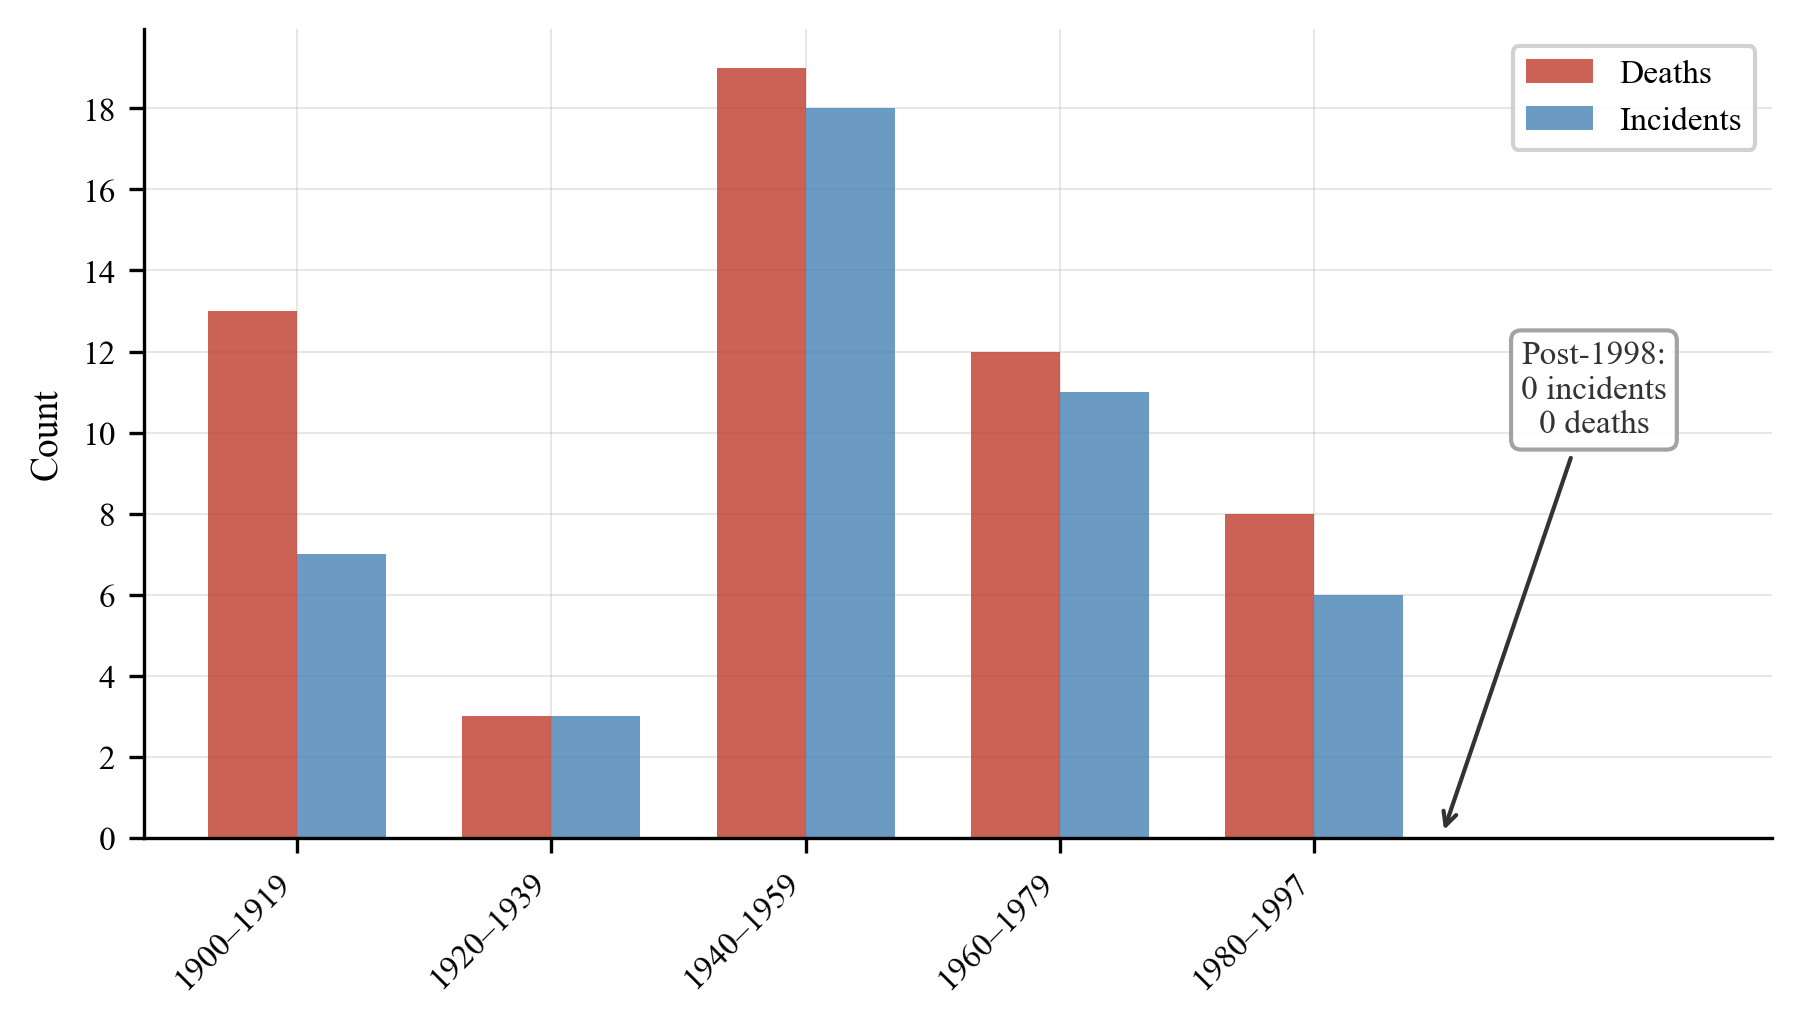
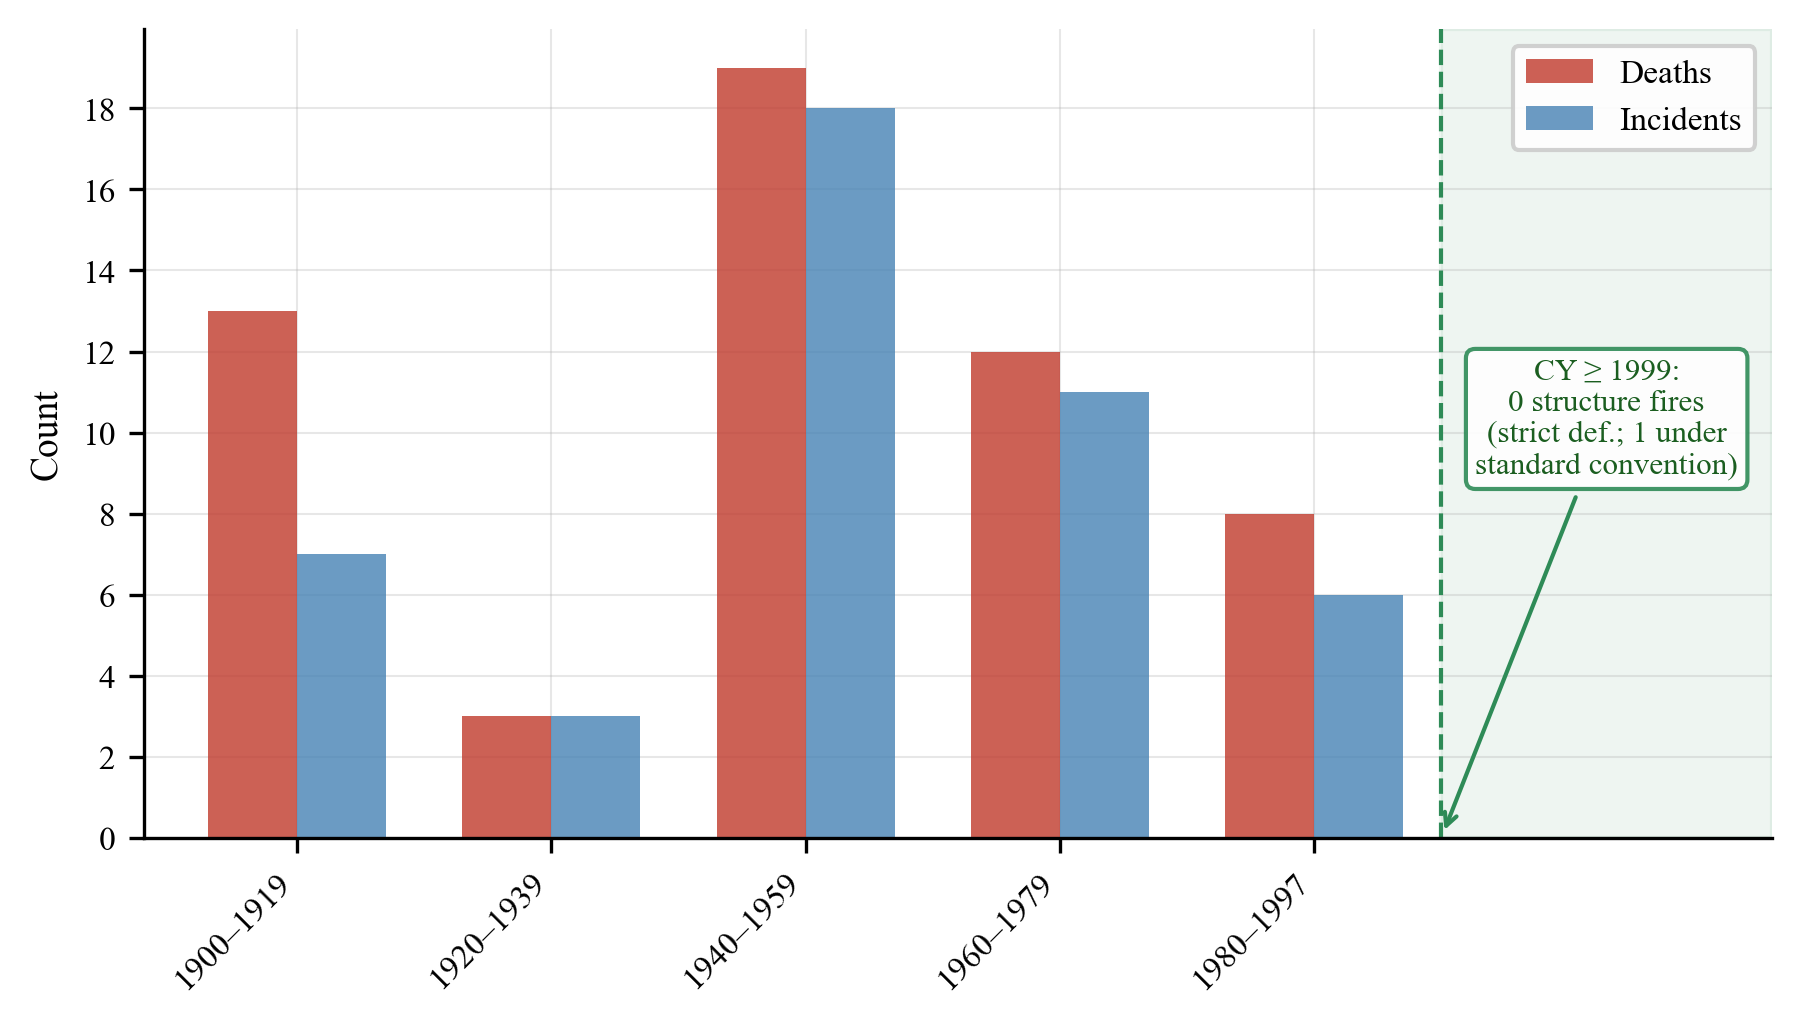
Corrected ITSA parameterization + definition-robust cohort analysis; verifier 92/92
Statistics verifier expanded to 92 checks (all pass), covering:
- three fire-classification conventions (strict/standard/worst-case) and the
  point-vs-bound fold factors (strict upper bound ~4x below the pre-1998 point
  estimate; standard point ~12x below);
- occupancy alignment (36 of 38 pre-1998-cohort deaths in ordinary dwellings);
- pre-1998 exact-Poisson 95% CI (0.41-0.79);
- joint denominator x classification sensitivity (the halved-denominator +
  two-death extreme is the one scenario whose bound reaches the pre-1998 rate);
- corrected segmented-ITSA level change (no significant 1999 step under any
  specification or outcome).

fig3 gains a shaded post-1998 (recorded CY >= 1999) region; fig4 uses the
corrected Poisson fit. advanced_analyses.py and revision_analyses.py use the
standard Wagner segmented parameterization (time_since_1999).

Changed region(s): [[0.8084, 0.3122, 0.995, 0.6244], [0.8084, 0.6244, 0.8395, 0.7805], [0.7773, 0.7805, 0.8084, 0.8117]]

diff --git a/scripts/verify_statistics.py b/scripts/verify_statistics.py
@@ -176,13 +176,44 @@ check("Halved-denominator upper bound = 0.29", 3.0/(PY_POST1998/2)*1e5, 0.2884, 
 
 
 # ══════════════════════════════════════════════════════════════════════════
-section("7. Worst-case reclassification sensitivity")
+section("7. Definition-robust post-1998 cohort (three fire-classification conventions)")
+def one_sided_ub(k, py):   # one-sided 95% exact-Poisson upper bound (rule-of-3 family)
+    return stats.chi2.ppf(0.95, 2*(k+1))/2 / py * 1e5
+# strict (0), standard/any-building-fire (1: 2014 nursing home CY2001), worst-case (2)
+check("Strict (0 deaths) upper bound = 0.14", one_sided_ub(0, PY_POST1998), 0.1442, tol=0.002)
+std_rate = 1 / PY_POST1998 * 1e5
+check("Standard (1 death) rate = 0.048", std_rate, 0.0481, tol=0.001)
+check("Standard upper bound = 0.23", one_sided_ub(1, PY_POST1998), 0.228, tol=0.004)
+check("Standard ~12x below pre-1998", rate_pre/std_rate, 12.0, tol=0.5)
 wc_rate = 2 / PY_POST1998 * 1e5
-check("Worst-case rate (2 deaths) = 0.096", wc_rate, 0.0961, tol=0.001)
-# one-sided 95% exact-Poisson upper bound for k=2 (same convention as k=0 rule-of-3)
-ub2 = stats.chi2.ppf(0.95, 2*(2+1))/2 / PY_POST1998 * 1e5
-check("Worst-case one-sided 95% upper bound = 0.30", ub2, 0.3027, tol=0.004)
-check("Worst-case still ~6x below pre-1998", rate_pre/wc_rate, 6.0, tol=0.2)
+check("Worst-case (2 deaths) rate = 0.096", wc_rate, 0.0961, tol=0.001)
+check("Worst-case upper bound = 0.30", one_sided_ub(2, PY_POST1998), 0.3027, tol=0.004)
+check("Worst-case ~6x below pre-1998", rate_pre/wc_rate, 6.0, tol=0.2)
+# fold factors (GPT-5.5 precision point): strict UPPER BOUND is ~4x below the
+# pre-1998 POINT estimate, not 12x; 12x applies to the standard POINT estimate only
+check("Strict bound ~4x below pre-1998 point", rate_pre/one_sided_ub(0, PY_POST1998), 4.0, tol=0.2)
+check("Standard point ~12x below pre-1998 point", rate_pre/std_rate, 12.0, tol=0.5)
+# occupancy alignment: 36 of 38 pre-1998-cohort deaths are ordinary dwellings
+win = structure[(structure.year>=1999)&(structure.year<=2025)
+                & structure.construction_year.notna() & (structure.construction_year<=1998)]
+nondwelling = win[(win.is_commercial_residential==True)
+                  | win.notes.str.contains("industrial|commercial|Residency", case=False, na=False)]
+check("Pre-1998-cohort ordinary-dwelling deaths = 36", int(win.deaths.sum()-nondwelling.deaths.sum()), 36)
+check("Pre-1998-cohort converted-commercial deaths = 2", int(nondwelling.deaths.sum()), 2)
+check("Dwelling-only pre-1998 rate = 0.54", 36/PY_PRE1998*1e5, 0.5424, tol=0.002)
+# pre-1998 exact-Poisson 95% CI on 38 deaths
+ci_lo = stats.chi2.ppf(0.025, 2*38)/2 / PY_PRE1998*1e5
+ci_hi = stats.chi2.ppf(0.975, 2*(38+1))/2 / PY_PRE1998*1e5
+check("Pre-1998 95% CI lower = 0.41", ci_lo, 0.405, tol=0.01)
+check("Pre-1998 95% CI upper = 0.79", ci_hi, 0.786, tol=0.01)
+# joint sensitivity: halved denominator x classification (the one crossing scenario)
+check("Joint: halved denom + 2 deaths bound = 0.61 (reaches pre-1998 point)",
+      one_sided_ub(2, PY_POST1998/2), 0.605, tol=0.01)
+check("Joint: halved denom + 1 death bound = 0.46 (still below)",
+      one_sided_ub(1, PY_POST1998/2), 0.456, tol=0.01)
+# robustness: every UB below pre-1998 point EXCEPT the compounded extreme
+check("All modeled-denominator bounds < pre-1998 point 0.573",
+      int(all(one_sided_ub(k, PY_POST1998) < rate_pre for k in (0,1,2))), 1)
 
 
 # ══════════════════════════════════════════════════════════════════════════

diff --git a/scripts/reproduce_tables_figures.py b/scripts/reproduce_tables_figures.py
@@ -223,12 +223,15 @@ ax.bar(x - bar_width/2, [d["Deaths"] for d in bands_data],
        bar_width, color="#C0392B", alpha=0.8, label="Deaths")
 ax.bar(x + bar_width/2, [d["Incidents"] for d in bands_data],
        bar_width, color="#4682B4", alpha=0.8, label="Incidents")
-# Post-1998 zero annotation
-ax.annotate("Post-1998:\n0 incidents\n0 deaths",
-            xy=(len(bands_data) - 0.5, 0), xytext=(len(bands_data) + 0.1, 10),
-            fontsize=8, ha="center", color="#333333",
-            arrowprops=dict(arrowstyle="->", color="#333333", lw=1.0),
-            bbox=dict(boxstyle="round,pad=0.3", facecolor="white", edgecolor="#999999", alpha=0.9))
+# Shade the post-1998 (recorded CY >= 1999) region to make the empty space visible
+ax.axvspan(len(bands_data) - 0.5, len(bands_data) + 0.8, color="#2E8B57", alpha=0.08, zorder=0)
+ax.axvline(len(bands_data) - 0.5, color="#2E8B57", ls="--", lw=1.0, zorder=1)
+# Post-1998 annotation (definition-accurate)
+ax.annotate("CY ≥ 1999:\n0 structure fires\n(strict def.; 1 under\nstandard convention)",
+            xy=(len(bands_data) - 0.5, 0), xytext=(len(bands_data) + 0.15, 9),
+            fontsize=7.5, ha="center", color="#1B5E20",
+            arrowprops=dict(arrowstyle="->", color="#2E8B57", lw=1.0),
+            bbox=dict(boxstyle="round,pad=0.3", facecolor="white", edgecolor="#2E8B57", alpha=0.9))
 ax.set_xticks(x)
 ax.set_xticklabels([d["Band"] for d in bands_data], rotation=45, ha="right")
 ax.set_ylabel("Count")

diff --git a/scripts/revision_analyses.py b/scripts/revision_analyses.py
@@ -248,8 +248,9 @@ def rate_and_bound(deaths, py):
     return rate, ub
 
 scenarios = [
-    ("Primary (recorded CY>=1999)", 0),
-    ("Worst-case (+nursing-home 2014, +Studlar/Fossaleyni)", 2),
+    ("Strict def (building-system-relevant spread)", 0),
+    ("Standard def (any fatal fire in a building: +2014 nursing home)", 1),
+    ("Worst-case (+Studlar/Fossaleyni unregistered extension)", 2),
 ]
 rows = []
 for label, d in scenarios: